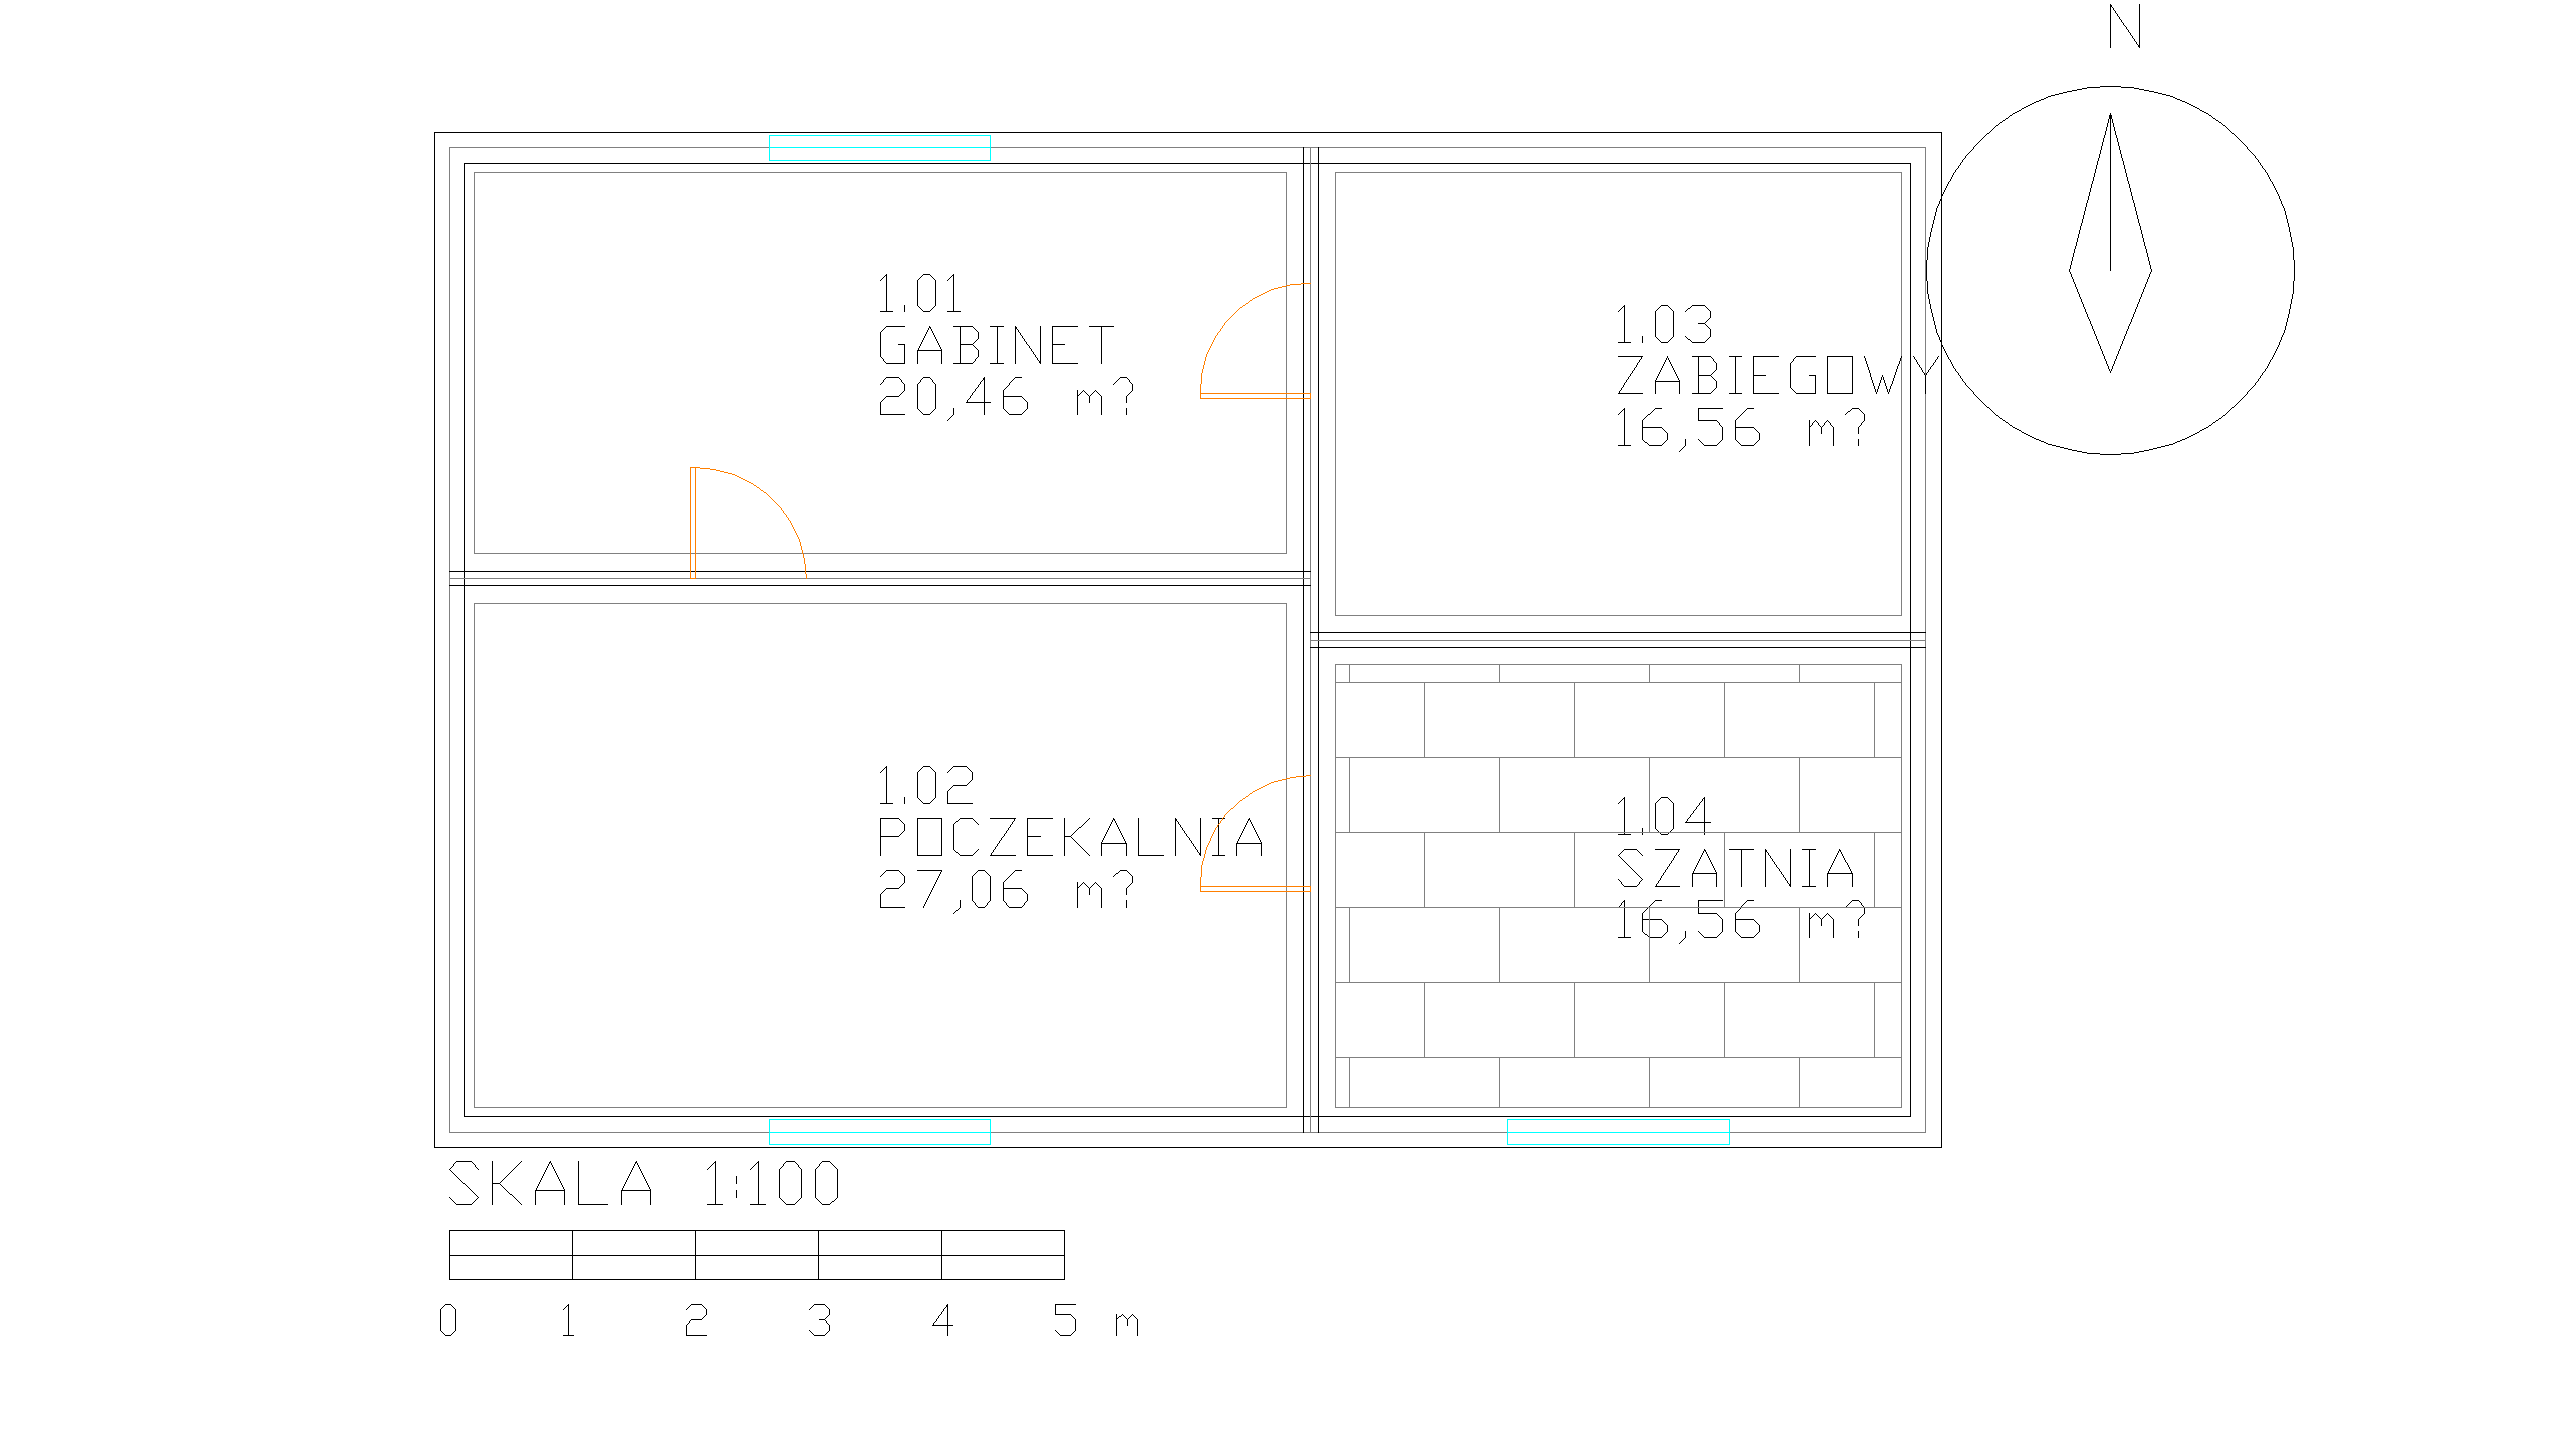
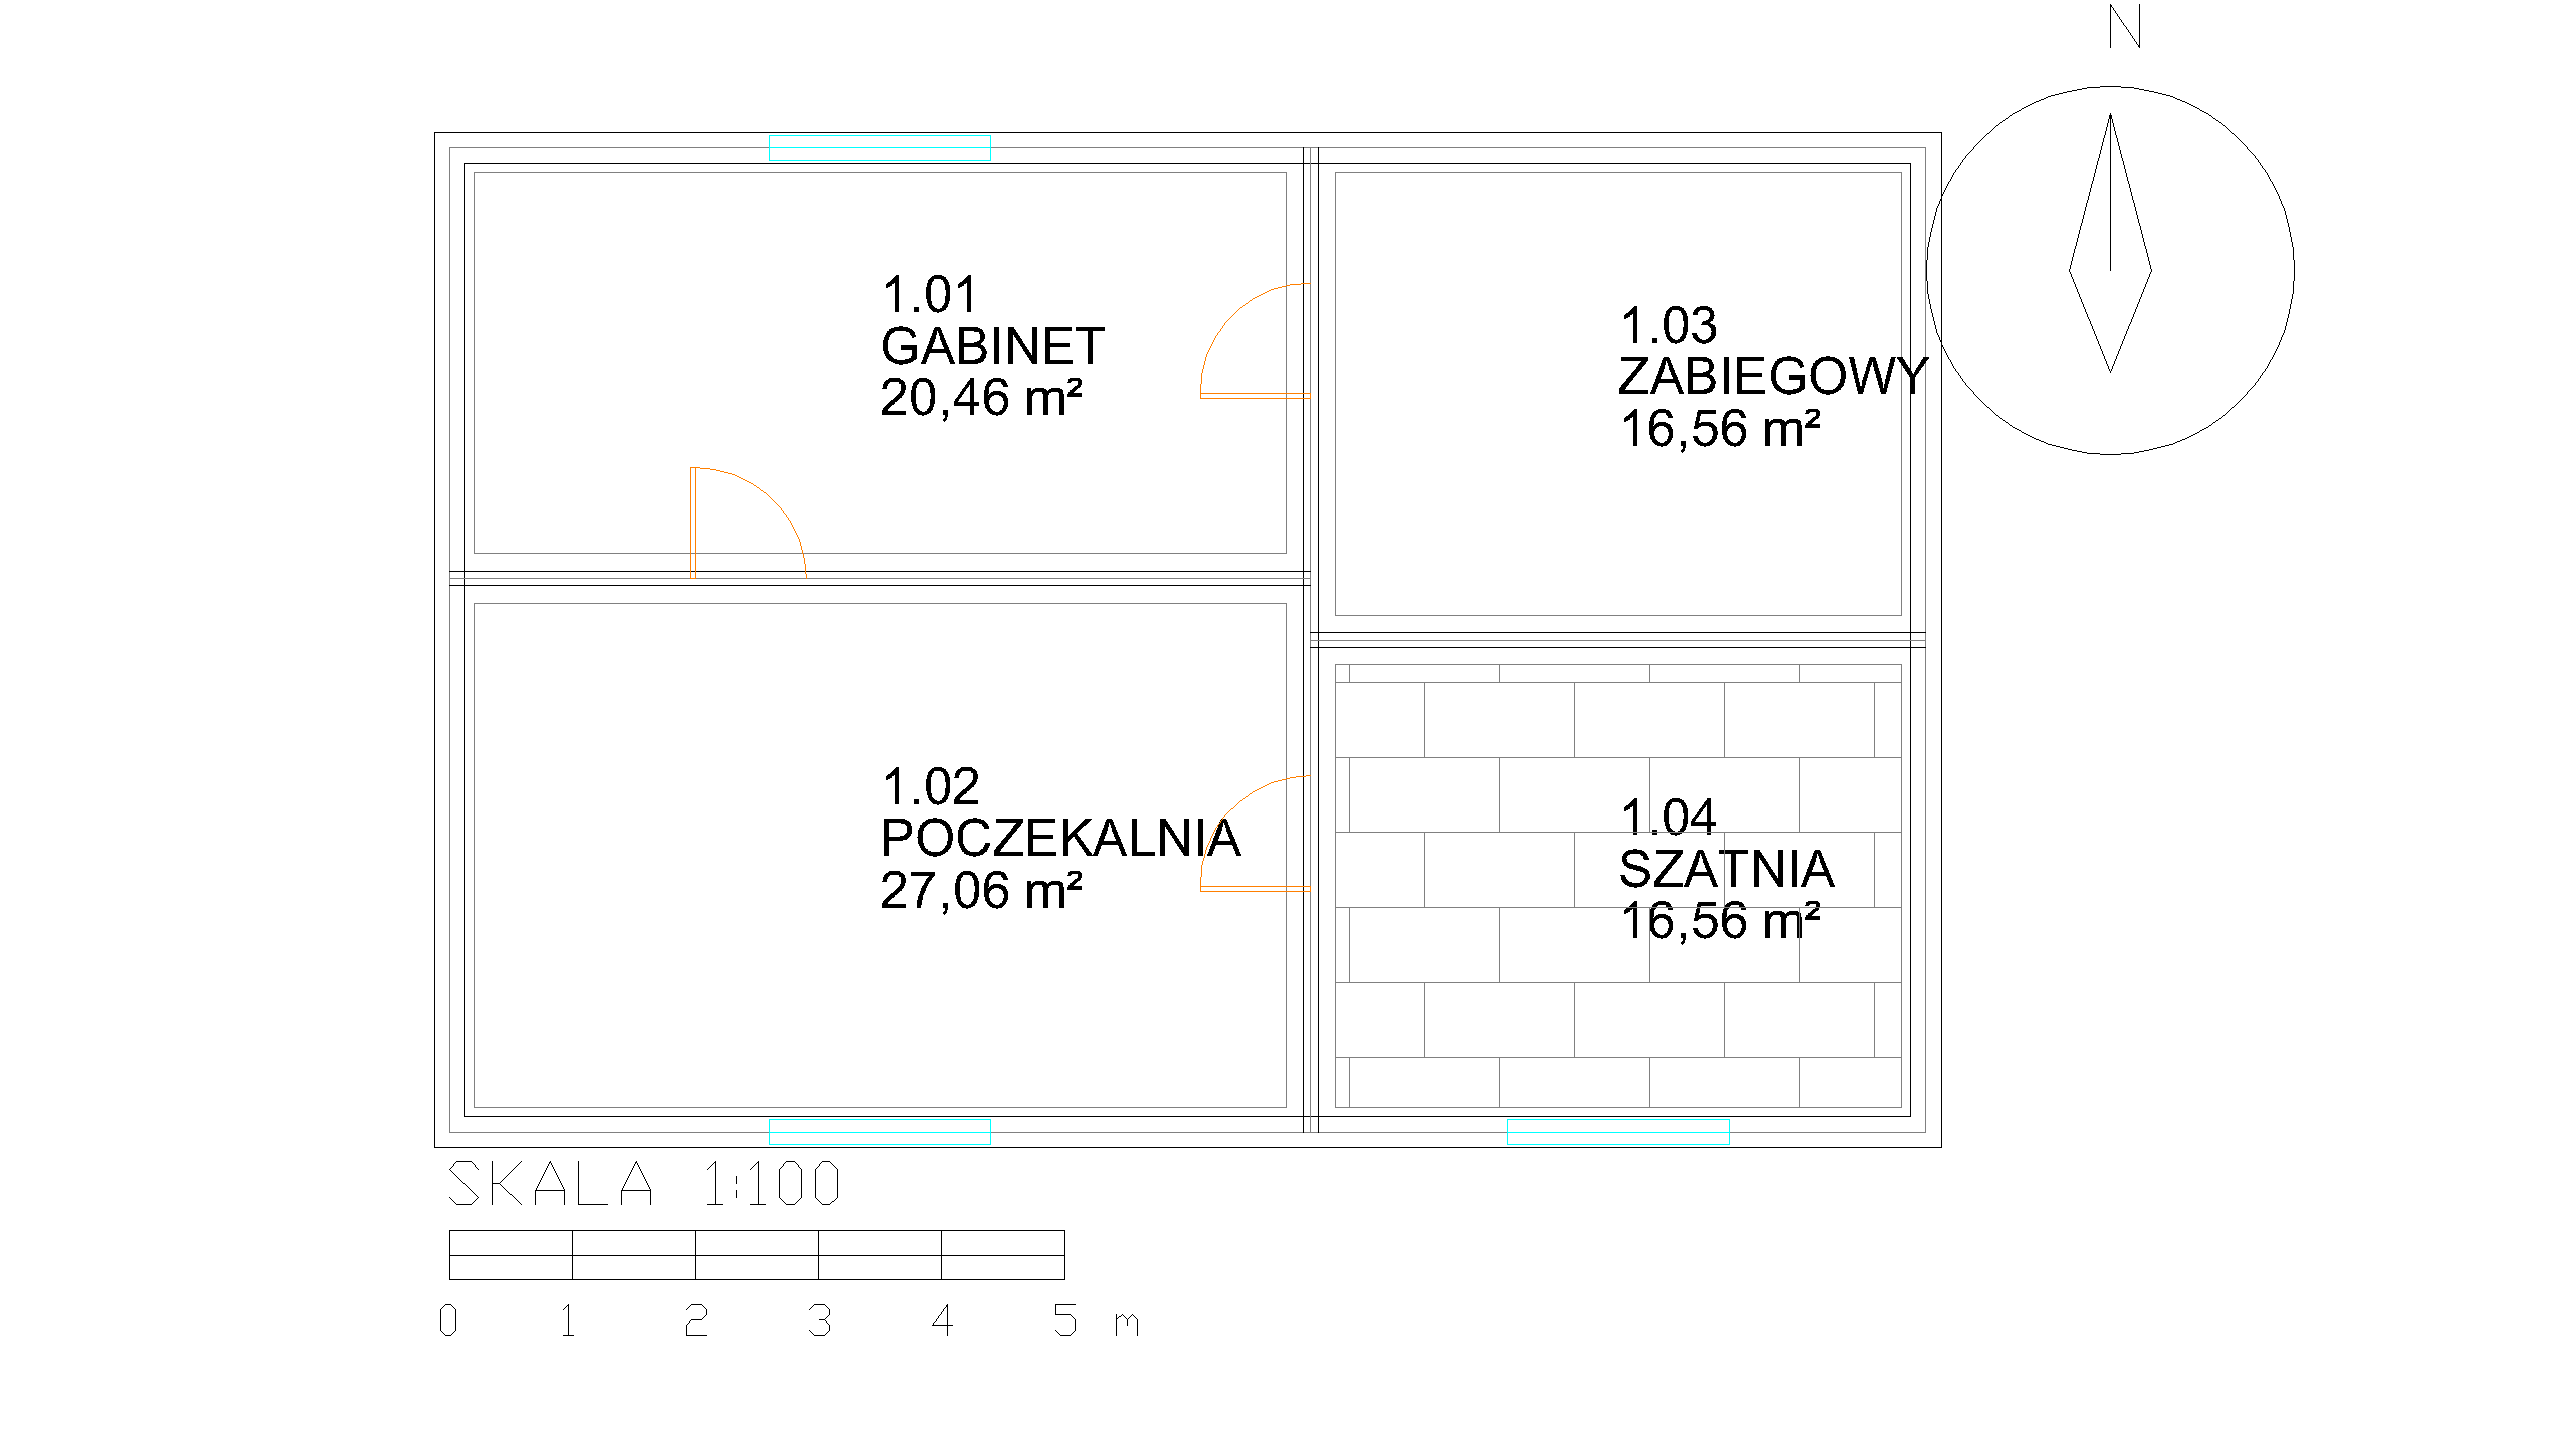
fix(architecture): room tags now render m2 properly, and README has a picture
The area label reads "20,46 m²" and drew "20,46 m?" on every default install.
The string was never wrong - proper UTF-8 in the source, read as UTF-8 by
Roslyn. AutoCAD's default text style is backed by an SHX font that has no glyph
for the superscript.

The non-obvious part: setting a TrueType style as CURRENT does not fix it.
DBText takes the style it is handed, and define_room was handing it none. So it
now names one. ACADMCP-ROOM (Arial) is created on demand - the underlying tool
is idempotent, so a drawing that already has it is untouched - and used for all
three tag lines.

Per the decision on how far to go: a new tagTextStyle argument means this is
offered rather than imposed. Pass your own style name and nothing is created;
pass "" to opt out and take whatever the drawing has current, question mark and
all; leave it null for the working default. An office with its own text
standards is not overridden by a tool that only wanted to draw a superscript.

One diagnostic cycle went to my own mistake, recorded so it does not cost
anyone else: create_text_style takes a TrueType TYPEFACE NAME ("Arial"), not a
file name. Passing "arial.ttf" succeeds and produces a style bound to a
typeface that does not exist. It renders as the fallback, which looks exactly
like the style being ignored - so I spent a run concluding define_room ignored
the current style, when the style itself was broken.

README now opens with the picture it has never had, generated by
[…]

diff --git a/src/AcadMcp.Backend/Categories/Architecture/ArchitectureTools.cs b/src/AcadMcp.Backend/Categories/Architecture/ArchitectureTools.cs
@@ -402,15 +402,46 @@ public static class ArchitectureTools
         var namePos   = new Point2dDto(centroid.X, centroid.Y);
         var areaPos   = new Point2dDto(centroid.X, centroid.Y - lineSpacing);
 
+        // The area label carries "m²", and AutoCAD's default text style is backed by an SHX
+        // font that has no glyph for it - so every room tag on a default install used to read
+        // "20,46 m?". The string was never wrong; the font could not draw it.
+        //
+        // Setting a TrueType style as current does not help either: DBText takes the style it
+        // is given, and this tool was giving none. So name one explicitly. The style is created
+        // on demand and the call is idempotent, so a drawing that already has it is untouched.
+        //
+        // tagTextStyle lets an office with its own standards name their style instead; pass
+        // their name and nothing is created. Passing "" opts out entirely and takes whatever
+        // the drawing's current style is, "m?" and all - deliberate, and their call to make.
+        var tagStyle = args.TagTextStyle;
+        if (tagStyle is null)
+        {
+            tagStyle = DefaultRoomTagTextStyle;
+            // "Arial" is the typeface name, not "arial.ttf" - the plugin builds a FontDescriptor
+            // from this string, and a file name there yields a style bound to a typeface that
+            // does not exist, which renders as the fallback and looks like the style was ignored.
+            await ArchitectureProxy.EnsureTextStyleAsync(gw, tagStyle, "Arial", ct).ConfigureAwait(false);
+        }
+        else if (tagStyle.Length == 0)
+        {
+            tagStyle = null;   // explicit opt-out: use whatever the drawing has current
+        }
+
         var numberText = await ArchitectureProxy.AddDBTextAsync(
-            gw, numberPos, args.Number, args.TagTextHeightMm, args.TagLayer, 0.0, ct).ConfigureAwait(false);
+            gw, numberPos, args.Number, args.TagTextHeightMm, args.TagLayer, 0.0, ct, tagStyle).ConfigureAwait(false);
         var nameText   = await ArchitectureProxy.AddDBTextAsync(
-            gw, namePos, args.Name,   args.TagTextHeightMm, args.TagLayer, 0.0, ct).ConfigureAwait(false);
+            gw, namePos, args.Name,   args.TagTextHeightMm, args.TagLayer, 0.0, ct, tagStyle).ConfigureAwait(false);
         var areaText   = await ArchitectureProxy.AddDBTextAsync(
-            gw, areaPos, $"{areaM2:F2} m²", args.TagTextHeightMm, args.TagLayer, 0.0, ct).ConfigureAwait(false);
+            gw, areaPos, $"{areaM2:F2} m²", args.TagTextHeightMm, args.TagLayer, 0.0, ct, tagStyle).ConfigureAwait(false);
 
         return new DefineRoomResult(boundary, numberText, nameText, areaText, areaM2, centroid, created);
     }
+
+    /// <summary>
+    /// Text style created on demand for room tags. TrueType, because the area label contains
+    /// "m²" and the SHX fonts AutoCAD ships with have no glyph for it.
+    /// </summary>
+    private const string DefaultRoomTagTextStyle = "ACADMCP-ROOM";
 
     // ─────────── dimensioning ───────────
 

diff --git a/src/AcadMcp.Backend/Categories/Architecture/ArchitectureProxy.cs b/src/AcadMcp.Backend/Categories/Architecture/ArchitectureProxy.cs
@@ -139,7 +139,8 @@ public static class ArchitectureProxy
         double heightMm,
         string layer,
         double rotationDeg,
-        CancellationToken ct)
+        CancellationToken ct,
+        string? textStyle = null)
     {
         var args = new JsonObject
         {
@@ -149,7 +150,29 @@ public static class ArchitectureProxy
             ["layer"]       = layer,
             ["rotationDeg"] = rotationDeg,
         };
+        if (!string.IsNullOrWhiteSpace(textStyle)) args["textStyle"] = textStyle;
         return await CallEntityAsync(gw, "acad.annotations.add_dbtext", args, T_NORMAL, ct).ConfigureAwait(false);
+    }
+
+    /// <summary>
+    /// Create a text style if it is not already in the drawing. The underlying tool is
+    /// idempotent, so this is safe to call on every request.
+    /// </summary>
+    /// <param name="font">
+    /// A TrueType <b>typeface name</b> ("Arial"), not a file name — the plugin builds a
+    /// <c>FontDescriptor</c> from it. Passing "arial.ttf" produces a style bound to a typeface
+    /// that does not exist, which renders as the fallback and looks like the style was ignored.
+    /// An <c>.shx</c> suffix selects the SHX path instead.
+    /// </param>
+    public static async Task EnsureTextStyleAsync(
+        IPluginGateway gw, string name, string font, CancellationToken ct)
+    {
+        var args = new JsonObject
+        {
+            ["name"] = name,
+            ["font"] = font,
+        };
+        await gw.InvokeAsync("acad.annotations.create_text_style", args, T_NORMAL, ct).ConfigureAwait(false);
     }
 
     public static async Task<EntityHandle> DimensionLinearAsync(

diff --git a/src/AcadMcp.Backend/Categories/Architecture/ArchitectureDtos.cs b/src/AcadMcp.Backend/Categories/Architecture/ArchitectureDtos.cs
@@ -157,7 +157,11 @@ public sealed record DefineRoomArgs(
     [property: JsonPropertyName("tagPosition")] Point2dDto? TagPosition = null,   // null => auto-centroid
     [property: JsonPropertyName("tagTextHeightMm")] double TagTextHeightMm = 250.0,
     [property: JsonPropertyName("boundaryLayer")] string BoundaryLayer = ArchitecturePalette.LayerRoomBoundary,
-    [property: JsonPropertyName("tagLayer")]   string TagLayer = ArchitecturePalette.LayerRoomIdentification);
+    [property: JsonPropertyName("tagLayer")]   string TagLayer = ArchitecturePalette.LayerRoomIdentification,
+    // null  -> create and use ACADMCP-ROOM (TrueType, so "m²" renders)
+    // "..."  -> use the caller's own style, created by them, nothing added to the drawing
+    // ""     -> opt out; take the drawing's current style, superscript glyph and all
+    [property: JsonPropertyName("tagTextStyle")] string? TagTextStyle = null);
 
 public sealed record DefineRoomResult(
     [property: JsonPropertyName("boundary")]   EntityHandle Boundary,

diff --git a/scripts/demo-scene.py b/scripts/demo-scene.py
@@ -31,10 +31,8 @@ try:
     print("== nowy rysunek ==")
     do("files", "new_document", {})
     do("architecture", "ensure_architectural_layers", {})
-    # Domyslny styl AutoCAD-a to SHX (txt.shx), ktory nie ma glifu ² i rysuje '?'.
-    # Jesli po przelaczeniu na TrueType m² pojawi sie poprawnie, diagnoza jest potwierdzona.
-    do("annotations", "create_text_style", {"name": "ACADMCP-DEMO", "font": "arial.ttf"})
-    do("annotations", "set_current_text_style", {"name": "ACADMCP-DEMO"})
+    # Styl tekstu dla etykiet pomieszczen tworzy teraz samo define_room (ACADMCP-ROOM,
+    # TrueType), bo domyslny SHX nie ma glifu ². Nic tu nie trzeba ustawiac.
 
     print("\n== sciany ==")
     do("architecture", "draw_walls_chain",

diff --git a/docs/KNOWN-GAPS.md b/docs/KNOWN-GAPS.md
@@ -67,27 +67,23 @@ mistypes the argument gets a checkpoint they cannot then find by label. Advertis
 required, treated as optional — the same catalogue-vs-consumer disagreement as
 [section C1](#c-missing-test-machinery), but between schema and handler.
 
-### A8. Room area tags render `m?` instead of `m²`
-**Status:** found 2026-08-04 while building the README demo. Diagnosed, not fixed — the fix
-carries a product decision.
+### ~~A8. Room area tags render `m?` instead of `m²`~~
+**Fixed 2026-08-04, verified visually.** The string was never wrong — proper UTF-8 in the
+source, read as UTF-8. AutoCAD's default text style is backed by an SHX font with no glyph for
+the superscript, so it drew a question mark on every room tag.
 
-`architecture.define_room` writes the area as `20,46 m²`. The string is correct: the literal in
-`ArchitectureTools.cs` is proper UTF-8 (`0xC2 0xB2`) and Roslyn reads BOM-less files as UTF-8,
-so nothing is mangled in transport. **AutoCAD's default text style uses an SHX font, which has
-no glyph for `²` and draws `?` instead.** Every room tag on a default install is affected.
+Setting a TrueType style as *current* does not help: `DBText` takes the style it is given, and
+`define_room` was giving none. It now names one. `ACADMCP-ROOM` (Arial) is created on demand,
+idempotently, and used for all three tag lines.
 
-Creating a TrueType style and making it current does *not* help — `define_room` does not use the
-current text style, which is a second finding worth its own look.
+New `tagTextStyle` argument so this is not imposed: pass your own style name and nothing is
+created; pass `""` to opt out entirely and take the drawing's current style. Default `null`
+gets the working behaviour.
 
-Two ways out, and they are not equivalent:
-- **Write `m2`.** Renders on every install, including SHX. Less correct typographically, and
-  Polish architectural drafting convention is `m²`.
-- **Have `define_room` ensure a TrueType-backed style for room tags.** Keeps `m²`, but imposes a
-  text style on the caller's drawing, which an office with its own standards will not thank us
-  for.
-
-Deliberately not decided unilaterally: this changes the content of every drawing the tool
-produces, not just a screenshot.
+Worth recording separately: `create_text_style` takes a TrueType **typeface name** ("Arial"),
+not a file name. Passing `"arial.ttf"` succeeds and produces a style bound to a typeface that
+does not exist, which renders as the fallback and looks exactly like the style was ignored.
+Cost me one diagnostic cycle.
 
 ### A3. `xrefs.set_xref_clip_display`
 **Status:** works, but the name over-promises.

diff --git a/README.md b/README.md
@@ -4,6 +4,14 @@
 
 **Goal:** an AI agent that produces production-grade AutoCAD drawings without human intervention.
 
+![Plan a small clinic, drawn by an agent through this MCP server](assets/readme/demo-clinic.png)
+
+<sub>Four rooms with computed areas, walls, doors, windows, a tiled floor, north arrow and
+scale bar — 21 tool calls, no human drafting. Reproduce it with
+[`scripts/demo-scene.py`](scripts/demo-scene.py); it runs against your AutoCAD and writes this
+exact PNG. Building it found two defects that every previous run had reported as a success —
+see [KNOWN-GAPS.md](docs/KNOWN-GAPS.md).</sub>
+
 > **Not here for AutoCAD?** [**PATTERN.md**](PATTERN.md) is the transferable half — what we
 > learned wrapping a thick desktop application in MCP, with the failures that produced each
 > lesson. Nothing in it is AutoCAD-specific. Start there if you are building the same kind of
